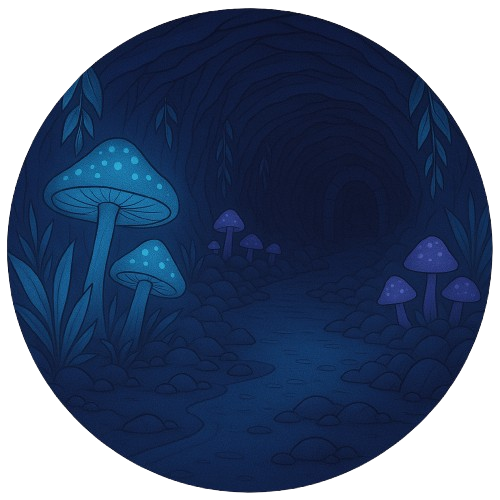
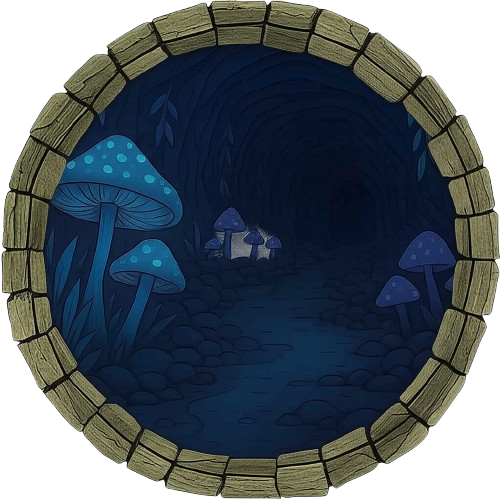
mundos novos e background certo nos mundos

diff --git a/jogo_v1.py b/jogo_v1.py
@@ -44,7 +44,7 @@ background_mistico = pygame.transform.scale(background_mistico, (WIDTH, HEIGHT))
 background_planeta = pygame.image.load(os.path.join(caminho_img, 'mundo.png')).convert()
 background_planeta = pygame.transform.scale(background_planeta, (WIDTH, HEIGHT))
 
-background_verde = pygame.image.load(os.path.join(caminho_img, 'mundo_verde.jpeg')).convert()
+background_verde = pygame.image.load(os.path.join(caminho_img, 'mundo_verde.png')).convert()
 background_verde = pygame.transform.scale(background_verde, (WIDTH, HEIGHT))
 
 button_image = pygame.image.load(os.path.join(caminho_img, 'button.png')).convert_alpha()
@@ -242,6 +242,7 @@ while game:
                     vidas = [True, True, True]
                     diamantes.empty()
                 elif mundo_verde_rect.collidepoint(event.pos):
+                    window.blit(mundo_verde_img, mundo_verde_rect)
                     tela = "jogo"
                     tempo_inicial = pygame.time.get_ticks()
                     fase_atual = "mundo_verde"
@@ -250,12 +251,12 @@ while game:
                     vidas = [True, True, True]
                     diamantes.empty()
                 elif mundo1_rect.collidepoint(event.pos):
-                        tela = "jogo"
-                        fase_atual = "mundo1"
-                        tempo_inicial = pygame.time.get_ticks()
-                        pontuacao = 0
-                        vidas = [True, True, True]
-                        diamantes.empty()
+                    tela = "jogo"
+                    fase_atual = "mundo1"
+                    tempo_inicial = pygame.time.get_ticks()
+                    pontuacao = 0
+                    vidas = [True, True, True]
+                    diamantes.empty()
                     
         elif tela == "jogo":
             if event.type == SPAWN_EVENT:
@@ -350,10 +351,11 @@ while game:
     elif tela == "mundo_verde":
         window.fill((50, 10, 30))
         font = pygame.font.SysFont(None, 48)
-        texto = font.render("Você entrou no Mundo Místico!", True, (255, 255, 255))
+        texto = font.render("Você entrou no Mundo Verde!", True, (255, 255, 255))  # ← Corrigido
         window.blit(background_verde, (0 , 0))
         sub = pygame.font.SysFont(None, 24).render("Pressione ESPAÇO para voltar", True, (180, 180, 180))
         window.blit(sub, (80, HEIGHT // 2 + 30))
+
 
     elif tela == "mundo1":
         window.fill((50, 10, 30))
@@ -364,7 +366,17 @@ while game:
         window.blit(sub, (80, HEIGHT // 2 + 30))
 
     elif tela == "jogo":
-        window.blit(background_jogo, (0, 0))
+
+        if fase_atual == "mundo_planeta":
+            window.blit(background_planeta, (0, 0))
+        elif fase_atual == "mundo_mistico":
+            window.blit(background_mistico, (0, 0))
+        elif fase_atual == "mundo_verde":
+            window.blit(background_verde, (0, 0))
+        elif fase_atual == "mundo1":
+            window.blit(background_jogo, (0, 0))
+        else:
+            window.blit(background_jogo, (0, 0))
         # Atualiza e desenha diamantes
         for d in list(diamantes):
             status = d.update()
